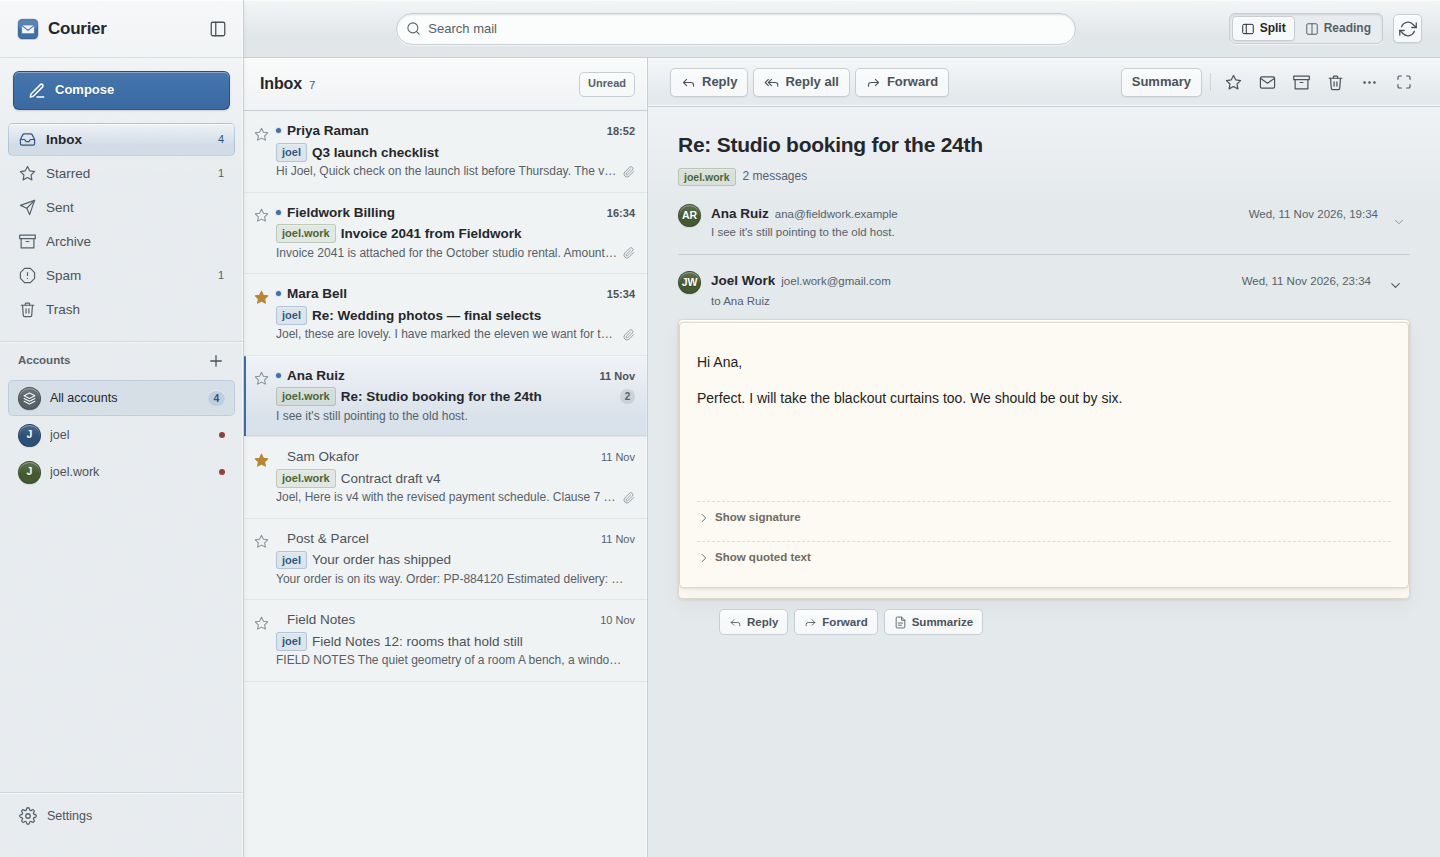
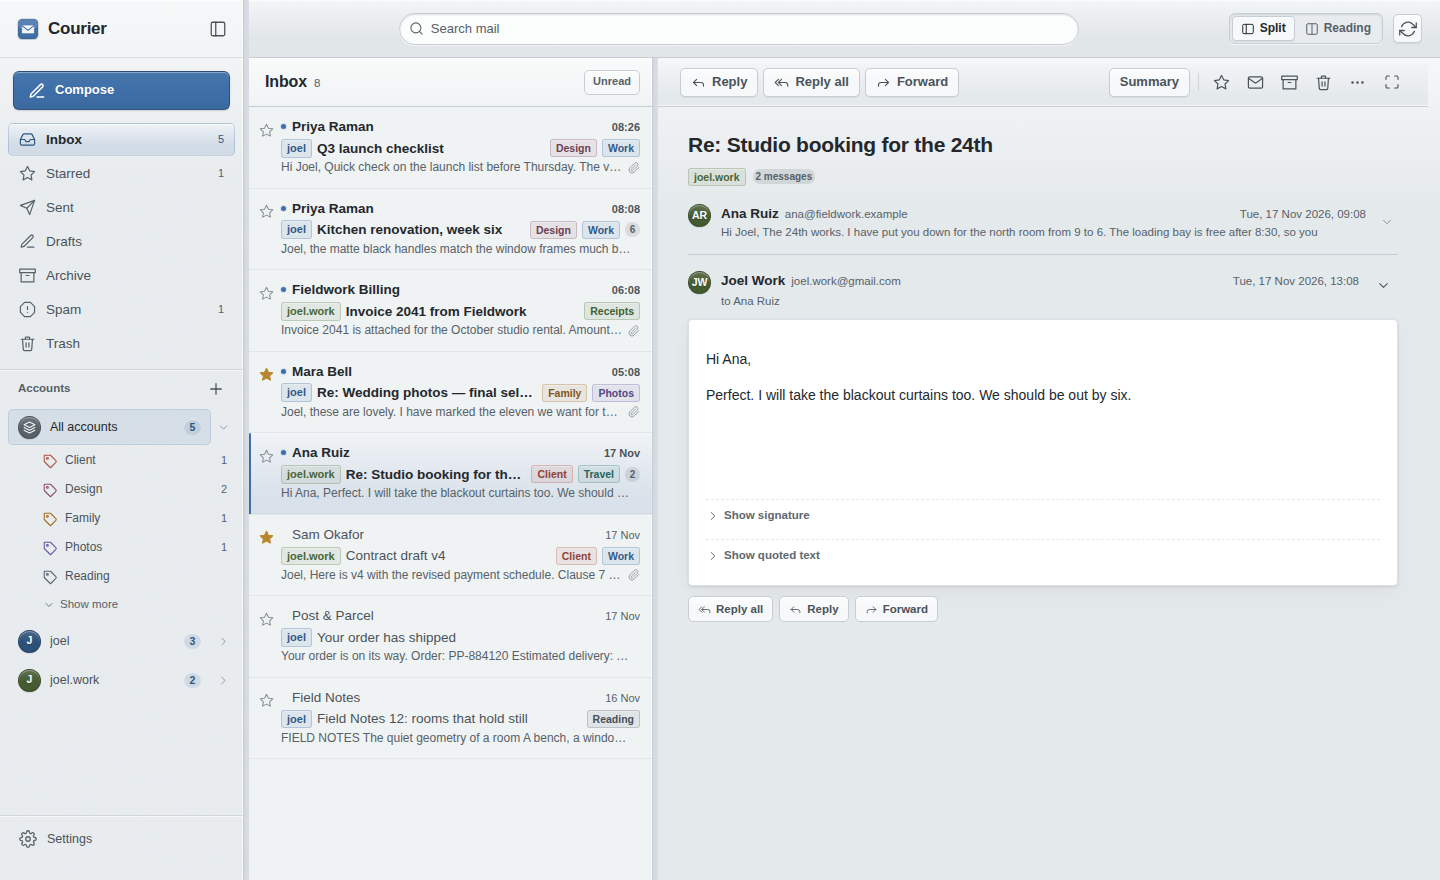
Refresh screenshots and add theme examples

diff --git a/README.md b/README.md
@@ -10,6 +10,16 @@ Chromium, no Electron, no Node runtime, and no calendar.
 
 ![Courier showing a merged inbox and an open email thread](docs/courier.png)
 
+<details>
+<summary>More theme combinations</summary>
+
+| Window and email paper | Window and email paper |
+| :---: | :---: |
+| [![Linen window with Linen email paper](docs/themes/linen.png)](docs/themes/linen.png)<br>**Linen** window, **Linen** email | [![Sepia window with Sepia email paper](docs/themes/sepia.png)](docs/themes/sepia.png)<br>**Sepia** window, **Sepia** email |
+| [![Graphite window with Fog email paper](docs/themes/graphite-fog.png)](docs/themes/graphite-fog.png)<br>**Graphite** window, **Fog** email | [![Midnight window with Midnight email paper](docs/themes/midnight.png)](docs/themes/midnight.png)<br>**Midnight** window, **Midnight** email |
+
+</details>
+
 ## What it does
 
 - Merges any number of Gmail accounts into one inbox, with per-account colours, badges,
@@ -446,7 +456,7 @@ COURIER_DATA_DIR="$PWD/.dev/demo-data" COURIER_DEMO=1 python3 -m app.main --serv
 - `tests/` — core tests and the demo database generator.
 - `packaging/` — Debian package builder, wrapper, desktop entry, and man page.
 - `.github/workflows/debian.yml` — CI tests and package builds.
-- `docs/courier.png` — the screenshot above.
+- `docs/` — the main screenshot and the theme examples above.
 
 See `AGENTS.md` for the architecture, implementation notes, and where to tune signature
 detection if a sender's layout slips through.

diff --git a/AGENTS.md b/AGENTS.md
@@ -142,7 +142,8 @@ packaging/
 .github/workflows/
   debian.yml      JS checks, tests, .deb artifact, release asset on v* tags
 docs/
-  courier.png     README screenshot, taken from the demo database
+  courier.png     main README screenshot, taken from the demo database
+  themes/         collapsed README theme-combination screenshots
 .dev/            ignored local demo DB, Chrome profile, helper scripts, screenshots
 ```
 
